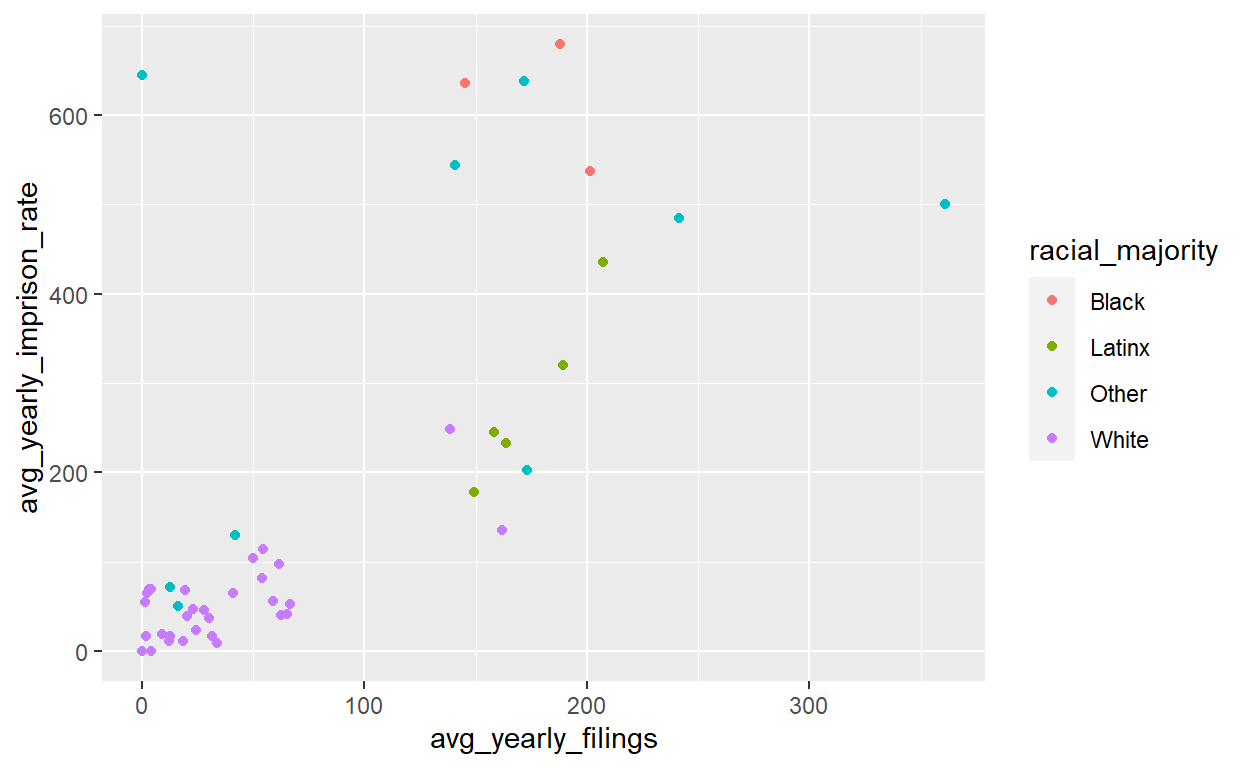
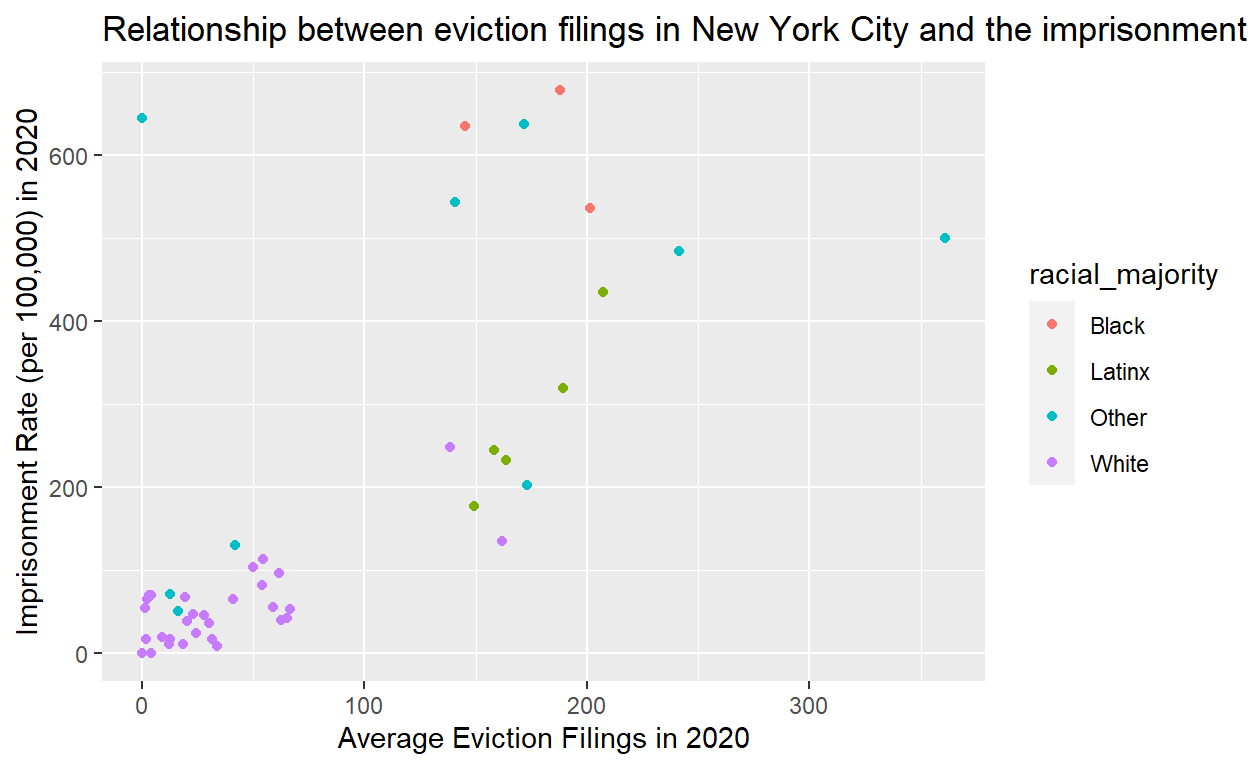
milestone 3 edits

diff --git a/index.html b/index.html
@@ -115,7 +115,7 @@ code span.wa { color: #5e5e5e; font-style: italic; } /* Warning */
   <!--/radix_placeholder_rmarkdown_metadata-->
   
   <script type="text/json" id="radix-resource-manifest">
-  {"type":"character","attributes":{},"value":["index_files/anchor-4.2.2/anchor.min.js","index_files/bowser-1.9.3/bowser.min.js","index_files/distill-2.2.21/template.v2.js","index_files/figure-html5/unnamed-chunk-8-1.png","index_files/header-attrs-2.17/header-attrs.js","index_files/header-attrs-2.24/header-attrs.js","index_files/jquery-3.6.0/jquery-3.6.0.js","index_files/jquery-3.6.0/jquery-3.6.0.min.js","index_files/jquery-3.6.0/jquery-3.6.0.min.map","index_files/popper-2.6.0/popper.min.js","index_files/tippy-6.2.7/tippy-bundle.umd.min.js","index_files/tippy-6.2.7/tippy-light-border.css","index_files/tippy-6.2.7/tippy.css","index_files/tippy-6.2.7/tippy.umd.min.js","index_files/webcomponents-2.0.0/webcomponents.js","newyork_monthly_2020_2021.csv"]}
+  {"type":"character","attributes":{},"value":["index_files/anchor-4.2.2/anchor.min.js","index_files/bowser-1.9.3/bowser.min.js","index_files/distill-2.2.21/template.v2.js","index_files/figure-html5/unnamed-chunk-7-1.png","index_files/figure-html5/unnamed-chunk-8-1.png","index_files/header-attrs-2.17/header-attrs.js","index_files/header-attrs-2.24/header-attrs.js","index_files/jquery-3.6.0/jquery-3.6.0.js","index_files/jquery-3.6.0/jquery-3.6.0.min.js","index_files/jquery-3.6.0/jquery-3.6.0.min.map","index_files/popper-2.6.0/popper.min.js","index_files/tippy-6.2.7/tippy-bundle.umd.min.js","index_files/tippy-6.2.7/tippy-light-border.css","index_files/tippy-6.2.7/tippy.css","index_files/tippy-6.2.7/tippy.umd.min.js","index_files/webcomponents-2.0.0/webcomponents.js","newyork_monthly_2020_2021.csv"]}
   </script>
   <!--radix_placeholder_navigation_in_header-->
   <!--/radix_placeholder_navigation_in_header-->
@@ -1579,43 +1579,14 @@ code span.wa { color: #5e5e5e; font-style: italic; } /* Warning */
 </div>
 <div class="layout-chunk" data-layout="l-body">
 <div class="sourceCode">
-<pre class="sourceCode r"><code class="sourceCode r"><span><span class='va'>evictions_ny</span><span class='op'>$</span><span class='va'>GEOID</span> <span class='op'>&lt;-</span> <span class='fu'><a href='https://rdrr.io/r/base/numeric.html'>as.numeric</a></span><span class='op'>(</span><span class='va'>evictions_ny</span><span class='op'>$</span><span class='va'>GEOID</span><span class='op'>)</span></span>
-<span><span class='fu'><a href='https://rdrr.io/r/base/class.html'>class</a></span><span class='op'>(</span><span class='va'>evictions_ny</span><span class='op'>$</span><span class='va'>GEOID</span><span class='op'>)</span></span></code></pre>
+<pre class="sourceCode r"><code class="sourceCode r"><span><span class='va'>evictions_ny</span><span class='op'>$</span><span class='va'>GEOID</span> <span class='op'>&lt;-</span> <span class='fu'><a href='https://rdrr.io/r/base/numeric.html'>as.numeric</a></span><span class='op'>(</span><span class='va'>evictions_ny</span><span class='op'>$</span><span class='va'>GEOID</span><span class='op'>)</span></span></code></pre>
 </div>
-<pre><code>[1] &quot;numeric&quot;</code></pre>
 </div>
-<div class="layout-chunk" data-layout="l-body">
-<div class="sourceCode">
-<pre class="sourceCode r"><code class="sourceCode r"><span><span class='va'>evictions_ny</span> <span class='op'>|&gt;</span></span>
-<span>  <span class='fu'><a href='https://dplyr.tidyverse.org/reference/count.html'>count</a></span><span class='op'>(</span><span class='va'>GEOID</span><span class='op'>)</span> <span class='op'>|&gt;</span></span>
-<span>  <span class='fu'><a href='https://dplyr.tidyverse.org/reference/filter.html'>filter</a></span><span class='op'>(</span><span class='va'>n</span> <span class='op'>&gt;</span> <span class='fl'>1</span><span class='op'>)</span></span></code></pre>
-</div>
-<pre><code># A tibble: 301 × 2
-   GEOID     n
-   &lt;dbl&gt; &lt;int&gt;
- 1 10001    45
- 2 10002    45
- 3 10003    45
- 4 10004    45
- 5 10005    45
- 6 10006    45
- 7 10007    45
- 8 10008    45
- 9 10009    45
-10 10010    45
-# ℹ 291 more rows</code></pre>
-<div class="sourceCode">
-<pre class="sourceCode r"><code class="sourceCode r"><span><span class='va'>nyincarceration</span> <span class='op'>|&gt;</span></span>
-<span>  <span class='fu'><a href='https://dplyr.tidyverse.org/reference/count.html'>count</a></span><span class='op'>(</span><span class='va'>`New York Zip Codes`</span><span class='op'>)</span> <span class='op'>|&gt;</span></span>
-<span>  <span class='fu'><a href='https://dplyr.tidyverse.org/reference/filter.html'>filter</a></span><span class='op'>(</span><span class='va'>n</span> <span class='op'>&gt;</span> <span class='fl'>1</span><span class='op'>)</span></span></code></pre>
-</div>
-<pre><code># A tibble: 0 × 2
-# ℹ 2 variables: New York Zip Codes &lt;dbl&gt;, n &lt;int&gt;</code></pre>
-</div>
+<p>I made the GEOID variable numeric.</p>
 <div class="layout-chunk" data-layout="l-body">
 <div class="sourceCode">
 <pre class="sourceCode r"><code class="sourceCode r"><span><span class='va'>nyincarceration</span> <span class='op'>&lt;-</span> <span class='va'>nyincarceration</span> <span class='op'>|&gt;</span></span>
-<span>  <span class='fu'><a href='https://dplyr.tidyverse.org/reference/filter.html'>filter</a></span><span class='op'>(</span><span class='va'>`City`</span> <span class='op'>==</span> <span class='st'>"New York City"</span><span class='op'>)</span> <span class='co'>##filtering data to only show NYC data</span></span>
+<span>  <span class='fu'><a href='https://dplyr.tidyverse.org/reference/filter.html'>filter</a></span><span class='op'>(</span><span class='va'>`City`</span> <span class='op'>==</span> <span class='st'>"New York City"</span><span class='op'>)</span> </span>
 <span><span class='va'>nyincarceration</span></span></code></pre>
 </div>
 <pre><code># A tibble: 69 × 6
@@ -1638,17 +1609,23 @@ code span.wa { color: #5e5e5e; font-style: italic; } /* Warning */
 #   `Total Population, 2020` &lt;dbl&gt;,
 #   `Imprisonment Rate per 100,000` &lt;dbl&gt;</code></pre>
 </div>
+<p>I decided to only look at zip codes in New York City to reduce the amount of data I had to analyze.</p>
 <div class="layout-chunk" data-layout="l-body">
 <div class="sourceCode">
 <pre class="sourceCode r"><code class="sourceCode r"><span><span class='va'>table1</span> <span class='op'>&lt;-</span> <span class='va'>evictions_ny</span> <span class='op'>|&gt;</span></span>
-<span>  <span class='fu'><a href='https://dplyr.tidyverse.org/reference/mutate-joins.html'>inner_join</a></span><span class='op'>(</span><span class='va'>nyincarceration</span>, by <span class='op'>=</span> <span class='fu'><a href='https://rdrr.io/r/base/c.html'>c</a></span><span class='op'>(</span><span class='st'>"GEOID"</span> <span class='op'>=</span> <span class='st'>"New York Zip Codes"</span><span class='op'>)</span><span class='op'>)</span> </span>
-<span><span class='va'>table2</span> <span class='op'>&lt;-</span> <span class='va'>table1</span> <span class='op'>|&gt;</span> <span class='fu'><a href='https://dplyr.tidyverse.org/reference/group_by.html'>group_by</a></span><span class='op'>(</span><span class='va'>GEOID</span><span class='op'>)</span> <span class='op'>|&gt;</span></span>
+<span>  <span class='fu'><a href='https://dplyr.tidyverse.org/reference/mutate-joins.html'>inner_join</a></span><span class='op'>(</span><span class='va'>nyincarceration</span>, by <span class='op'>=</span> <span class='fu'><a href='https://rdrr.io/r/base/c.html'>c</a></span><span class='op'>(</span><span class='st'>"GEOID"</span> <span class='op'>=</span> <span class='st'>"New York Zip Codes"</span><span class='op'>)</span><span class='op'>)</span></span>
+<span></span>
+<span><span class='va'>table2</span> <span class='op'>&lt;-</span> <span class='va'>table1</span> <span class='op'>|&gt;</span> </span>
+<span>  <span class='fu'><a href='https://dplyr.tidyverse.org/reference/group_by.html'>group_by</a></span><span class='op'>(</span><span class='va'>GEOID</span><span class='op'>)</span> <span class='op'>|&gt;</span></span>
 <span>  <span class='fu'><a href='https://dplyr.tidyverse.org/reference/summarise.html'>summarize</a></span><span class='op'>(</span>avg_yearly_filings <span class='op'>=</span> <span class='fu'><a href='https://rdrr.io/r/base/mean.html'>mean</a></span><span class='op'>(</span><span class='va'>filings_avg</span><span class='op'>)</span>,</span>
 <span>            avg_yearly_imprison_rate <span class='op'>=</span> <span class='fu'><a href='https://rdrr.io/r/base/mean.html'>mean</a></span><span class='op'>(</span><span class='va'>`Imprisonment Rate per 100,000`</span><span class='op'>)</span><span class='op'>)</span></span>
 <span></span>
-<span><span class='va'>table3</span> <span class='op'>&lt;-</span> <span class='fu'><a href='https://dplyr.tidyverse.org/reference/mutate-joins.html'>left_join</a></span><span class='op'>(</span><span class='va'>table2</span>, <span class='va'>table1</span> <span class='op'>|&gt;</span> <span class='fu'><a href='https://dplyr.tidyverse.org/reference/select.html'>select</a></span><span class='op'>(</span><span class='va'>GEOID</span>, <span class='va'>racial_majority</span><span class='op'>)</span> <span class='op'>|&gt;</span> <span class='fu'><a href='https://dplyr.tidyverse.org/reference/group_by.html'>group_by</a></span><span class='op'>(</span><span class='va'>GEOID</span><span class='op'>)</span> <span class='op'>|&gt;</span> <span class='fu'><a href='https://dplyr.tidyverse.org/reference/summarise.html'>summarize</a></span><span class='op'>(</span>racial_majority <span class='op'>=</span> <span class='fu'><a href='https://rdrr.io/r/base/unique.html'>unique</a></span><span class='op'>(</span><span class='va'>racial_majority</span><span class='op'>)</span><span class='op'>)</span>,</span>
-<span>                    by <span class='op'>=</span> <span class='st'>"GEOID"</span><span class='op'>)</span></span>
-<span><span class='va'>table3</span> <span class='op'>|&gt;</span></span>
+<span><span class='va'>table3</span> <span class='op'>&lt;-</span> <span class='fu'><a href='https://dplyr.tidyverse.org/reference/mutate-joins.html'>left_join</a></span><span class='op'>(</span><span class='va'>table2</span>, <span class='va'>table1</span> <span class='op'>|&gt;</span> </span>
+<span>          <span class='fu'><a href='https://dplyr.tidyverse.org/reference/select.html'>select</a></span><span class='op'>(</span><span class='va'>GEOID</span>, <span class='va'>racial_majority</span><span class='op'>)</span> <span class='op'>|&gt;</span> </span>
+<span>          <span class='fu'><a href='https://dplyr.tidyverse.org/reference/group_by.html'>group_by</a></span><span class='op'>(</span><span class='va'>GEOID</span><span class='op'>)</span> <span class='op'>|&gt;</span> </span>
+<span>          <span class='fu'><a href='https://dplyr.tidyverse.org/reference/summarise.html'>summarize</a></span><span class='op'>(</span>racial_majority <span class='op'>=</span> <span class='fu'><a href='https://rdrr.io/r/base/unique.html'>unique</a></span><span class='op'>(</span><span class='va'>racial_majority</span><span class='op'>)</span><span class='op'>)</span>, by <span class='op'>=</span> <span class='st'>"GEOID"</span><span class='op'>)</span></span>
+<span></span>
+<span><span class='va'>table3</span> <span class='op'>|&gt;</span> </span>
 <span>  <span class='fu'><a href='https://dplyr.tidyverse.org/reference/mutate.html'>mutate</a></span><span class='op'>(</span>racial_majority <span class='op'>=</span> <span class='fu'><a href='https://rdrr.io/r/base/factor.html'>as.factor</a></span><span class='op'>(</span><span class='va'>racial_majority</span><span class='op'>)</span><span class='op'>)</span></span></code></pre>
 </div>
 <pre><code># A tibble: 69 × 4
@@ -1686,6 +1663,11 @@ code span.wa { color: #5e5e5e; font-style: italic; } /* Warning */
 10 10011              54.1                        82 White          
 # ℹ 57 more rows</code></pre>
 </div>
+<p>In table 1, I used the inner join function to combine the data from both data sets by zip code using the GEOID name.
+In table 2, I created the variables avg_yearly_filings and avg_yearly_imprison_rate so that my eviction data would be for the whole year instead of month to coincide with the yearly imprisonment rate.
+In table 3, I brought back the racial majority variable that showed the demographics of each zip code by using the left join variable. To make sure the racial majority variable showed up on my plot, I mutated it and changed it to a factor.
+In table 4, I removed the zip code 10173 because it was an outlier and was not allowing me to see the pattern in the plot.
+In table 5, I also removed the zip code 10199. I intend to find out why these zip codes are outliers.</p>
 <div class="layout-chunk" data-layout="l-body">
 <div class="sourceCode">
 <pre class="sourceCode r"><code class="sourceCode r"><span><span class='kw'><a href='https://rdrr.io/r/base/library.html'>library</a></span><span class='op'>(</span><span class='va'><a href='https://tidyr.tidyverse.org'>tidyr</a></span><span class='op'>)</span></span>
@@ -1695,13 +1677,15 @@ code span.wa { color: #5e5e5e; font-style: italic; } /* Warning */
 <span>             y <span class='op'>=</span> <span class='va'>avg_yearly_imprison_rate</span>,</span>
 <span>             color <span class='op'>=</span> <span class='va'>racial_majority</span><span class='op'>)</span><span class='op'>)</span> <span class='op'>+</span></span>
 <span>  <span class='fu'><a href='https://ggplot2.tidyverse.org/reference/geom_point.html'>geom_point</a></span><span class='op'>(</span><span class='op'>)</span> <span class='op'>+</span></span>
-<span>  <span class='fu'><a href='https://ggplot2.tidyverse.org/reference/labs.html'>labs</a></span><span class='op'>(</span>title <span class='op'>=</span> <span class='st'>"Relationship between eviction filings in New York City and the imprisonment rate in 2020"</span>,</span>
+<span>  <span class='fu'><a href='https://ggplot2.tidyverse.org/reference/labs.html'>labs</a></span><span class='op'>(</span>title <span class='op'>=</span> <span class='st'>"Relationship between eviction filings in New York City and the </span></span>
+<span><span class='st'>       imprisonment rate in 2020"</span>,</span>
 <span>       x <span class='op'>=</span> <span class='st'>"Average Eviction Filings in 2020"</span>,</span>
 <span>       y <span class='op'>=</span> <span class='st'>"Imprisonment Rate (per 100,000) in 2020"</span><span class='op'>)</span></span></code></pre>
 </div>
-<p><img src="index_files/figure-html5/unnamed-chunk-8-1.png" width="624" /></p>
+<p><img src="index_files/figure-html5/unnamed-chunk-7-1.png" width="624" /></p>
 </div>
-<div class="sourceCode" id="cb9"><pre class="sourceCode r distill-force-highlighting-css"><code class="sourceCode r"></code></pre></div>
+<p>I created a scatter plot with the average filings for a given zip code as the explanatory variable and the imprisonment rate as the outcome variable. After taking out the outliers, the plot showed a cluster of data at the bottom left for white zip codes, showing that white zip codes have lower numbers of eviction filings and a smaller imprisonment rate. Interestingly, the Latinx zip codes are clustered in a positive direction in the middle of the plot, suggesting that the more eviction filings a Latinx zip code has, the higher the imprisonment rate is for that zip code. The zip codes labeled “Other” (which means another racial/ethnic group is the majority, or there is no group with &gt;50% of the population in the zip code) had a high imprisonment rate no matter the average eviction filings. Black zip codes have a similar average of eviction filings as Latinx zip codes but a higher imprisonment rate than Latinx zip codes.</p>
+<div class="sourceCode" id="cb6"><pre class="sourceCode r distill-force-highlighting-css"><code class="sourceCode r"></code></pre></div>
 <!--radix_placeholder_article_footer-->
 <!--/radix_placeholder_article_footer-->
 </div>
